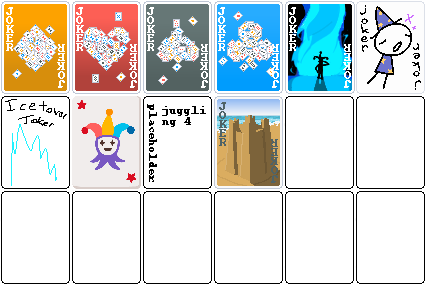
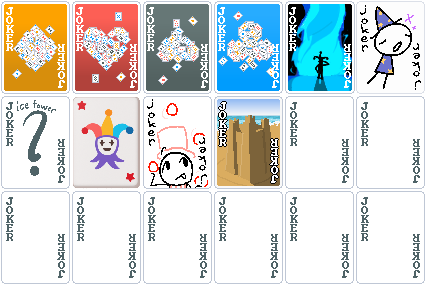
minor fixes

Changed region(s): [[0.0, 0.3368, 1.0, 1.0], [0.2136, 0.5614, 0.2441, 0.5895]]

diff --git a/brain storm.md b/brain storm.md
@@ -25,13 +25,10 @@
     - art (DONE!)
 - Juggling 4: Whenever you play a hand with 4 or more cards in it, earn $1 for each held 4
     - code (DONE!)
-    - art
+    - art (DONE!)
 - Sandcastle: Played cards are destroyed. When you sell this card, recreate all cards that were destroyed with Sandcastle.
     - code (DONE!)
-    - art
-- Capitalism: +$1 for every game in your Steam library
-    - code
-    - art
+    - art (DONE!)
 
 - ???: Played cards with Sparkle suit give +3 Mult when scored
     - code
@@ -140,7 +137,7 @@
 - lipu usawi: Creates 1 Tarot card and 1 Spectral card
     - code (DONE!)
     - art (DONE!)
-- spidery mind control: Converts up to 4 cards into 8s.
+- scorpio: Converts up to 4 cards into 8s.
     - code (DONE!)
     - art (DONE!)
 - Swap: Replaces one Joker for a random one.
